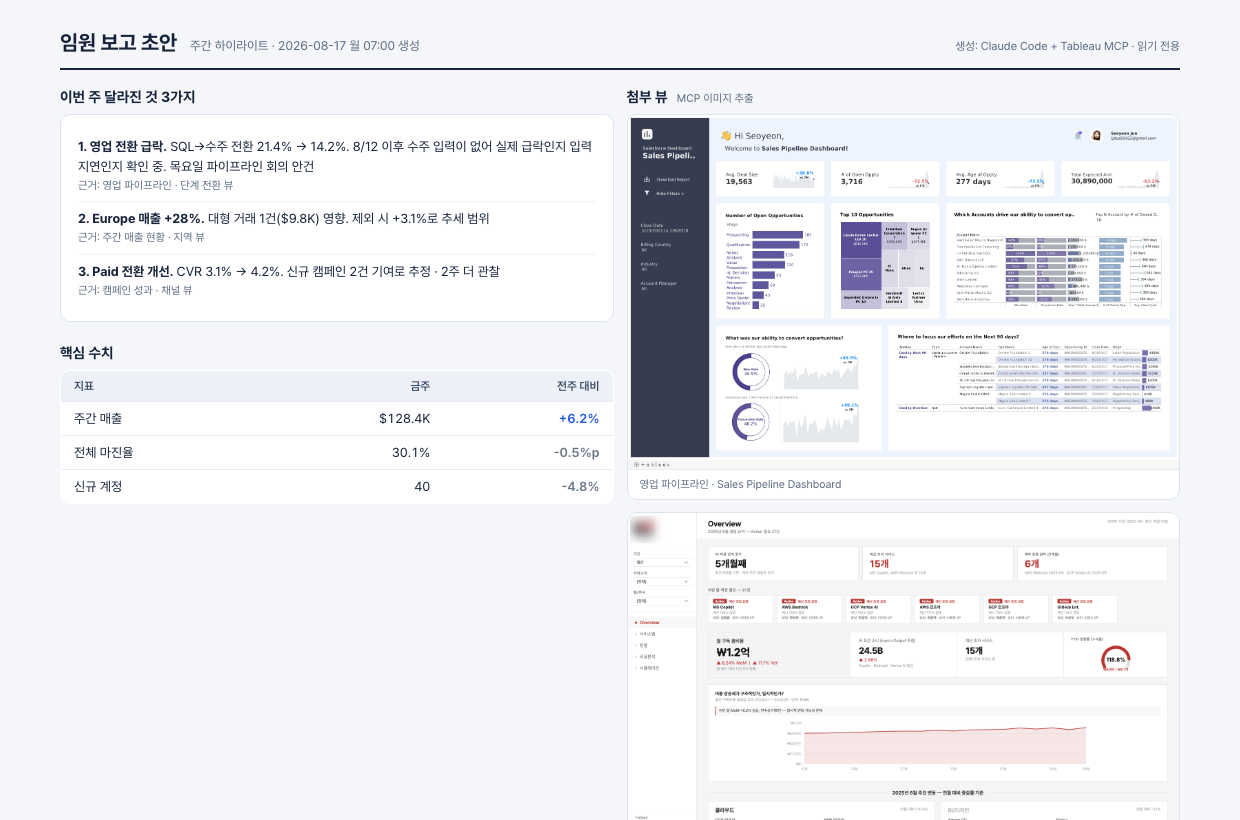
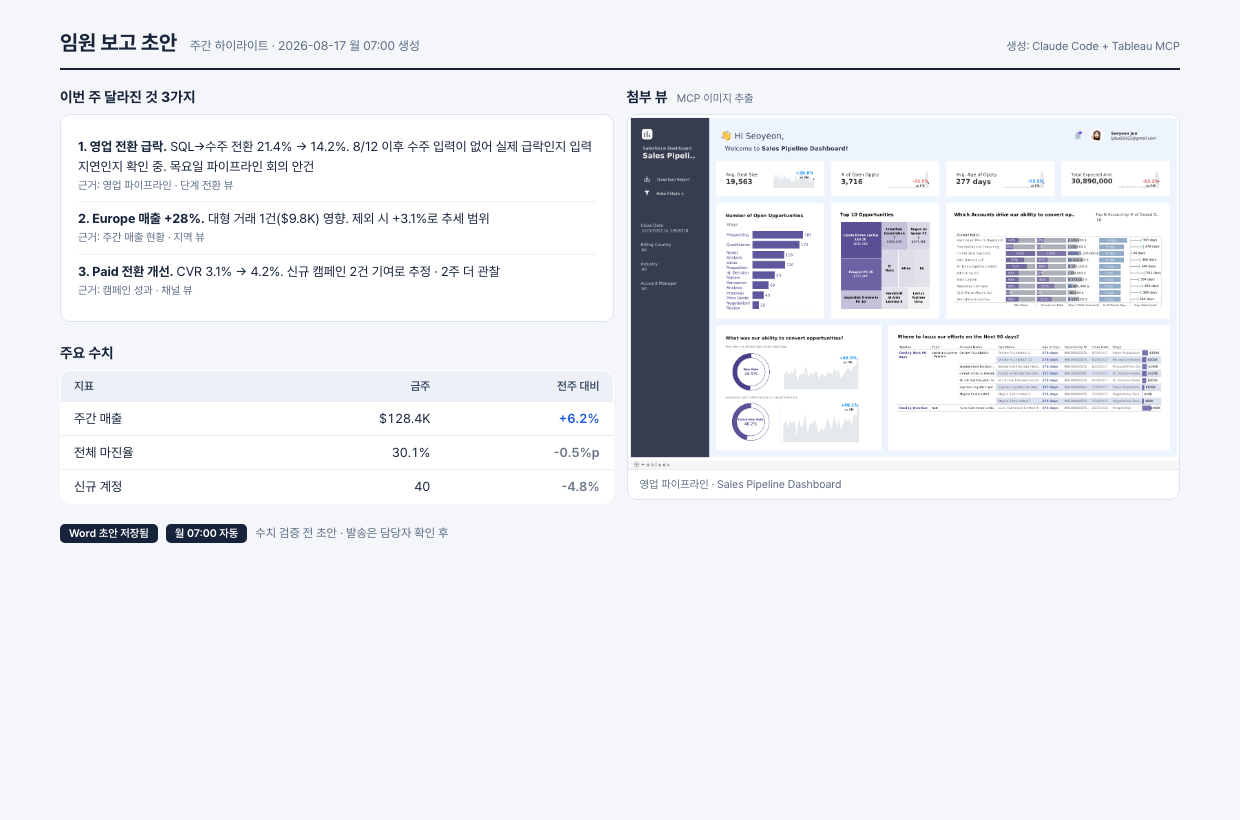
확장 KPI 중복 라벨 제거 · 소개 슬라이드 대시보드 타일 · 마무리 연락처 확대
- 확장: 코호트 폭이 좁을 때 D1 Retention이 3번 반복되던 문제 수정 (중복 열 제거 후 있는 만큼만 표시)
- 확장: 날짜 부족 안내 문구를 실제 상황에 맞게 수정
- 소개: Ambassador 5년 연속 → 2021 – 2026, 프로필 아래 Tableau Public 대시보드 10종 썸네일 (클릭 시 원본)
- 마무리: 이름 30px · 소속 25px · 이메일 링크 추가
- 임원 보고 초안에서 KT 대시보드 이미지 삭제
- 사례 페이지 전반 읽기 전용 · 판정 표현 정리, 핵심 수치 → 주요 수치
- 2.6 Tableau 인계 문구, 2.3 줄간격 조정

diff --git a/index.html b/index.html
@@ -57,6 +57,13 @@ p.sub{font-size:23px;line-height:1.45;color:var(--navy);font-weight:400}
 .bio ul{margin:0 0 20px}
 .bio ul:last-child{margin-bottom:0}
 .bio li{margin-bottom:7px}
+.pvgrid{display:grid;grid-template-columns:repeat(5,1fr);gap:7px;margin-top:11px}
+.pv{display:block;text-decoration:none;background:#fff;border:1px solid rgba(2,42,192,.13);
+  border-radius:8px;overflow:hidden}
+.pv img{display:block;width:100%;height:52px;object-fit:cover;object-position:top}
+.pv span{display:block;padding:5px 7px;font-size:8.5px;line-height:1.3;color:var(--navy);
+  white-space:nowrap;overflow:hidden;text-overflow:ellipsis;border-top:1px solid rgba(2,42,192,.08)}
+.pv em{font-style:normal;color:var(--accent);font-weight:700}
 .bio .grp{display:flex;align-items:center;gap:11px;font-family:var(--display);font-weight:700;
   font-size:15.5px;letter-spacing:.03em;color:var(--accent);margin-bottom:12px}
 .bio .grp:after{content:'';flex:1;height:1px;background:rgba(2,42,192,.2)}
@@ -187,7 +194,9 @@ h3.colhead{font-family:var(--display);font-weight:700;font-size:22px;line-height
 .thanks .lg{width:190px;margin-bottom:14px;position:relative;z-index:2}
 .thanks .t{font-family:var(--display);font-weight:700;font-size:150px;line-height:.94;color:var(--navy);letter-spacing:-.03em;position:relative;z-index:2}
 .thanks .t .y{display:block;margin-left:70px}
-.thanks .meta{margin-top:26px;font-size:19px;color:var(--navy);opacity:.9;position:relative;z-index:2;text-align:center;line-height:1.6}
+.thanks .meta{margin-top:30px;font-size:25px;font-weight:600;color:var(--navy);position:relative;z-index:2;text-align:center;line-height:1.55}
+.thanks .meta b{display:block;font-family:var(--display);font-weight:700;font-size:30px;margin-bottom:6px}
+.thanks .meta a{color:var(--accent);text-decoration:none;font-family:var(--mono);font-size:23px}
 
 /* ---------- 노트(발표자 메모) ---------- */
 .speakernote{display:none}
@@ -654,7 +663,7 @@ a.live .lu{font-family:var(--mono);font-size:12px;color:var(--accent);word-break
         <ul>
           <li><b>데이터브릿지랩 CEO</b></li>
           <li><b>Tableau Visionary</b></li>
-          <li><b>Tableau Public Ambassador 5년 연속</b></li>
+          <li><b>Tableau Public Ambassador · 2021 – 2026</b></li>
         </ul>
         <span class="grp">이전</span>
         <ul>
@@ -667,14 +676,17 @@ a.live .lu{font-family:var(--mono);font-size:12px;color:var(--accent);word-break
           <li>Tableau Live Featured Author · Tableau Certified Associate</li>
         </ul>
       </div>
-      <div class="shot rel"><img src="assets/profile_public.png" alt="Tableau Public 프로필"></div>
+      <div>
+        <div class="shot rel"><img src="assets/profile_public.png" alt="Tableau Public 프로필"></div>
+        <div class="pvgrid"><a class="pv" href="https://public.tableau.com/app/profile/.83057946/viz/SalesFunnelDashboard_16570254084520/SalesPipelineDashboard" target="_blank" rel="noopener"><img src="assets/public/sales_funnel_dashboard_votd.png" alt=""><span>Sales Funnel Dashboard <em>VOTD</em></span></a><a class="pv" href="https://public.tableau.com/app/profile/.83057946/viz/DigitalAdsPerformanceDashboard/PerformanceSummary" target="_blank" rel="noopener"><img src="assets/public/digital_ads_performance_dashboard.png" alt=""><span>Digital Ads Performance Dashboard</span></a><a class="pv" href="https://public.tableau.com/app/profile/.83057946/viz/RFMAnalysis-CustomerSegmentation/Segmentation" target="_blank" rel="noopener"><img src="assets/public/rfm_analysis_customer_segmentation.png" alt=""><span>RFM Analysis - Customer Segmentation</span></a><a class="pv" href="https://public.tableau.com/app/profile/.83057946/viz/12-3_GameLogDashboard_17534330076730/GameDashboard" target="_blank" rel="noopener"><img src="assets/public/game_log_dashboard.png" alt=""><span>Game Log Dashboard</span></a><a class="pv" href="https://public.tableau.com/app/profile/.83057946/viz/ShiningStars-MoviesData/ShiningStarsDashboard" target="_blank" rel="noopener"><img src="assets/public/shining_stars_votd.png" alt=""><span>Shining Stars <em>VOTD</em></span></a><a class="pv" href="https://public.tableau.com/app/profile/.83057946/viz/SalesAnalysis_16026638948020/Dashboard" target="_blank" rel="noopener"><img src="assets/public/sales_analysis.png" alt=""><span>Sales Analysis</span></a><a class="pv" href="https://public.tableau.com/app/profile/.83057946/viz/COVID19_SankeyChart/Sankey" target="_blank" rel="noopener"><img src="assets/public/covid19_sankeychart.png" alt=""><span>COVID19_SankeyChart</span></a><a class="pv" href="https://public.tableau.com/app/profile/.83057946/viz/KPIDashboardforNavigatingOrderValueDrivers/KPIDashboard" target="_blank" rel="noopener"><img src="assets/public/kpi_dashboard_for_navigating_order.png" alt=""><span>KPI Dashboard for Navigating Order Value Drivers</span></a><a class="pv" href="https://public.tableau.com/app/profile/.83057946/viz/PromotionAnalysisDahsboard/PromotionAnalysis" target="_blank" rel="noopener"><img src="assets/public/promotion_analysis_dahsboard.png" alt=""><span>Promotion Analysis Dahsboard</span></a><a class="pv" href="https://public.tableau.com/app/profile/.83057946/viz/NegativePressureIsolationRoomsInKorea/Dashboard" target="_blank" rel="noopener"><img src="assets/public/negative_pressure_isolation_rooms_.png" alt=""><span>Negative Pressure Isolation Rooms In Korea</span></a></div>
+      </div>
     </div>
   </div>
   <div class="footer">public.tableau.com · Seoyeon Jun</div>
 </section>
 
 <!-- =========================================================
-     03 · 핵심 주장
+     03 · 한 줄 주장
      ========================================================= -->
 <section class="slide dark bigstate">
   <img class="logo" src="assets/logo_white.png">
@@ -887,8 +899,8 @@ a.live .lu{font-family:var(--mono);font-size:12px;color:var(--accent);word-break
     <div class="cols c2" style="grid-template-columns:1fr 1.4fr;margin-top:24px;align-items:center">
       <div>
         <div class="clbadge"><img src="assets/claude_logo.svg" alt="Claude">Claude Code</div>
-        <p class="body" style="font-size:15px;">폴더 안 규칙 파일로 동작 고정 · 대화가 아니라 파일이 기준</p>
-        <p style="font-family:var(--display);font-weight:700;font-size:22px;color:var(--accent)">한 번 정의 → 재사용</p>
+        <p class="body" style="font-size:15px;line-height:1.7">폴더 안 규칙 파일로 동작 고정 · 대화가 아니라 파일이 기준</p>
+        <p style="margin-top:18px;font-family:var(--display);font-weight:700;font-size:22px;line-height:1.4;color:var(--accent)">한 번 정의 → 재사용</p>
       </div>
       <div class="tree">
         <div class="troot">.claude/</div>
@@ -981,7 +993,7 @@ a.live .lu{font-family:var(--mono);font-size:12px;color:var(--accent);word-break
         <span class="tag">RULE</span>
         <h3 class="colhead">공통 기준</h3>
         <div class="body"><p>7개 에이전트 전 단계 동일 적용 · 사람마다 다르던 기준의 문서화</p></div>
-        <div class="tbox"><img src="assets/tableau_logo.svg" alt=""><div><b>Tableau 인계</b><span>2 · 4 · 5조가 대시보드 카드 규칙으로 직결</span></div></div>
+        <div class="tbox"><img src="assets/tableau_logo.svg" alt=""><div><b>Tableau 인계</b><span>2 · 4 · 5번이 대시보드 카드 규칙으로 연결</span></div></div>
       </div>
     </div>
   </div>
@@ -1995,10 +2007,15 @@ a.live .lu{font-family:var(--mono);font-size:12px;color:var(--accent);word-break
   <img class="deco" src="assets/plus.png" style="right:390px;top:200px;width:30px">
   <img class="deco" src="assets/star.png" style="left:300px;bottom:230px;width:46px">
   <img class="deco" src="assets/plus.png" style="left:360px;bottom:270px;width:28px">
-  <img class="deco" src="assets/iheartdata.png" style="right:290px;bottom:180px;width:120px;z-index:3">
+  <img class="deco" src="assets/iheartdata.png" style="right:130px;bottom:96px;width:120px;z-index:3">
 
   <img class="lg" src="assets/logo_navy.png" style="width:150px;margin-bottom:6px">
   <div class="t" style="font-size:104px">Thank<span class="y" style="margin-left:48px">you</span></div>
+  <div class="meta">
+    <b>전서연 · 데이터브릿지랩 CEO</b>
+    Tableau Visionary &amp; Public Ambassador<br>
+    <a href="mailto:tjdus92422@gmail.com">tjdus92422@gmail.com</a>
+  </div>
   
 </section>
 

diff --git a/extension/retention-matrix/index.html b/extension/retention-matrix/index.html
@@ -250,13 +250,18 @@ function buildModel(events, now, cmp){
   }
   function colVal(k){ var c=retCol(k); return c===null?'—':c.toFixed(1)+'%'; }
   var dauLabel = unit==='day' ? 'DAU' : (unit==='week' ? 'WAU' : 'MAU');
-  var c1 = Math.min(1, maxCols-1), c2 = Math.min(4, maxCols-1), c3 = Math.min(8, maxCols-1);
-  var kpis=[
-    { label: dauLabel, value: avg.toFixed(1), delta: dAvg, unit:'%', cmpLabel: cmpLabel, trend: cSeries.slice(-14) },
-    { label: prefix+c1+' Retention', value: colVal(c1), delta: colDelta(c1), cmpLabel:'이전 코호트', trend: counts.slice(-14) },
-    { label: prefix+c2+' Retention', value: colVal(c2), delta: colDelta(c2), cmpLabel:'이전 코호트', trend: counts.slice(-14) },
-    { label: prefix+c3+' Retention', value: colVal(c3), delta: colDelta(c3), cmpLabel:'이전 코호트', trend: counts.slice(-14) }
-  ];
+  // 보여줄 코호트 열: 원하는 위치를 데이터 폭에 맞춰 줄이고 중복은 제거
+  var picks=[];
+  [1,4,8].forEach(function(k){
+    var c=Math.min(k, maxCols-1);
+    if(c>=1 && picks.indexOf(c)<0 && retCol(c)!==null) picks.push(c);
+  });
+  if(!picks.length) for(var pc=1; pc<maxCols && picks.length<3; pc++){ if(retCol(pc)!==null) picks.push(pc); }
+  var kpis=[{ label: dauLabel, value: avg.toFixed(1), delta: dAvg, unit:'%', cmpLabel: cmpLabel, trend: cSeries.slice(-14) }];
+  picks.forEach(function(c){
+    kpis.push({ label: prefix+c+' Retention', value: colVal(c), delta: colDelta(c),
+                cmpLabel:'이전 코호트', trend: counts.slice(-14) });
+  });
 
   return {
     periods: Array.apply(null,{length:maxCols}).map(function(_,i){return i;}),
@@ -355,9 +360,9 @@ function run(ws){
     var uniqDays={}; events.forEach(function(e){ uniqDays[startOfDay(e.t)]=1; });
     var nDays=Object.keys(uniqDays).length;
     if(nDays<4){
-      fail('날짜가 연 · 분기 · 월 단위로 집계되어 있습니다',
-        '서로 다른 날짜가 '+nDays+'개뿐이라 코호트를 만들 수 없습니다.<br>' +
-        'Event Date 선반의 필드를 우클릭 → <b>정확한 날짜</b>(Exact Date) 선택 후 다시 시도해 주세요.');
+      fail('서로 다른 날짜가 '+nDays+'개뿐입니다',
+        '코호트를 만들려면 날짜가 최소 4개 필요합니다.<br>' +
+        '날짜가 연 · 분기 · 월로 집계되어 있다면 Event Date 선반의 필드를 우클릭 → <b>정확한 날짜</b>(Exact Date)로 바꿔 주세요.');
       return;
     }
     var maxT=events.reduce(function(a,e){return Math.max(a,e.t);},0);

diff --git a/usecases/uc6_exec.html b/usecases/uc6_exec.html
@@ -39,7 +39,7 @@ code{font-family:'SF Mono',Menlo,monospace;font-size:11px;background:#EDF1F7;bor
 .shotimg .cap{padding:8px 12px;font-size:11px;color:#5B6B84;border-top:1px solid #E7ECF4}
 </style></head>
 <body><div class="page">
-<div class="hd"><h1>임원 보고 초안</h1><span class="period">주간 하이라이트 · 2026-08-17 월 07:00 생성</span><span class="gen">생성: Claude Code + Tableau MCP · 읽기 전용</span></div>
+<div class="hd"><h1>임원 보고 초안</h1><span class="period">주간 하이라이트 · 2026-08-17 월 07:00 생성</span><span class="gen">생성: Claude Code + Tableau MCP</span></div>
 
 <div class="two" style="margin-top:18px">
   <div>
@@ -49,7 +49,7 @@ code{font-family:'SF Mono',Menlo,monospace;font-size:11px;background:#EDF1F7;bor
       <li><b>2. Europe 매출 +28%.</b> 대형 거래 1건($9.8K) 영향. 제외 시 +3.1%로 추세 범위<div class="who">근거: 주간 매출 현황 · 지역 뷰</div></li>
       <li><b>3. Paid 전환 개선.</b> CVR 3.1% → 4.2%. 신규 캠페인 2건 기여로 추정 · 2주 더 관찰<div class="who">근거: 캠페인 성과 · 채널 뷰</div></li>
     </div>
-    <h2>핵심 수치</h2>
+    <h2>주요 수치</h2>
     <table>
       <tr><th>지표</th><th class="num" style="text-align:right">금주</th><th class="num" style="text-align:right">전주 대비</th></tr>
       <tr><td>주간 매출</td><td class="num">$128.4K</td><td class="num up">+6.2%</td></tr>
@@ -60,9 +60,8 @@ code{font-family:'SF Mono',Menlo,monospace;font-size:11px;background:#EDF1F7;bor
   <div>
     <h2 style="margin-top:0">첨부 뷰 <span class="n">MCP 이미지 추출</span></h2>
     <div class="shotimg"><img src="../assets/funnel_full.png" alt=""><div class="cap">영업 파이프라인 · Sales Pipeline Dashboard</div></div>
-    <div class="shotimg" style="margin-top:12px"><img src="../assets/demo_dashboard.png" alt=""><div class="cap">주간 매출 현황 · 수익성 분석</div></div>
   </div>
 </div>
-<div class="foot"><span class="b">Word 초안 저장됨</span><span class="b">월 07:00 자동</span><span>수치 검증 전 초안 · 발송 판단은 사람</span></div>
+<div class="foot"><span class="b">Word 초안 저장됨</span><span class="b">월 07:00 자동</span><span>수치 검증 전 초안 · 발송은 담당자 확인 후</span></div>
 
 </div></body></html>

diff --git a/usecases/demo_qa_report.html b/usecases/demo_qa_report.html
@@ -57,7 +57,7 @@ code{font-family:'SF Mono',Menlo,monospace;font-size:11.5px;background:#EDF1F7;b
 
   <h2>전주 대비 주요 KPI 변동 <span class="n">MCP: get-view-data · 뷰 17개 중 상위 6개</span></h2>
   <table>
-    <tr><th>워크북 · 뷰</th><th>지표</th><th class="num" style="text-align:right">전주</th><th class="num" style="text-align:right">이번 주</th><th class="num" style="text-align:right">변동</th><th>판정 후보</th></tr>
+    <tr><th>워크북 · 뷰</th><th>지표</th><th class="num" style="text-align:right">전주</th><th class="num" style="text-align:right">이번 주</th><th class="num" style="text-align:right">변동</th><th>확인 필요</th></tr>
     <tr><td>영업 파이프라인 · 단계별 전환</td><td>SQL→수주 전환율</td><td class="num">21.4%</td><td class="num">14.2%</td><td class="num dn">-7.2%p</td><td><span class="tag chk">확인 필요</span></td></tr>
     <tr><td>주간 매출 현황 · 카테고리</td><td>Furniture 마진율</td><td class="num">11.2%</td><td class="num">10.7%</td><td class="num dn">-0.5%p</td><td><span class="tag ok">추세 범위</span></td></tr>
     <tr><td>주간 매출 현황 · 지역</td><td>Europe 매출</td><td class="num">$48.2K</td><td class="num">$61.9K</td><td class="num up">+28.4%</td><td><span class="tag chk">확인 필요</span></td></tr>
@@ -82,7 +82,7 @@ code{font-family:'SF Mono',Menlo,monospace;font-size:11.5px;background:#EDF1F7;b
 
   <div class="foot">
     <span class="b">MCP 조회 46회</span>
-    <span>판정은 하지 않음 · 확인 필요 항목까지만 정리 · 수정과 배포는 담당자 승인 후 Tableau에서</span>
+    <span>확인이 필요한 항목까지만 정리 · 수정과 배포는 담당자 승인 후 Tableau에서</span>
   </div>
 </div>
 </body>

diff --git a/usecases/uc3_kpi_audit.html b/usecases/uc3_kpi_audit.html
@@ -39,7 +39,7 @@ code{font-family:'SF Mono',Menlo,monospace;font-size:11px;background:#EDF1F7;bor
 .shotimg .cap{padding:8px 12px;font-size:11px;color:#5B6B84;border-top:1px solid #E7ECF4}
 </style></head>
 <body><div class="page">
-<div class="hd"><h1>KPI 정의 감사 리포트</h1><span class="period">대상: 「매출」 계열 지표 · 워크북 12개 · 2026-08-18</span><span class="gen">생성: Claude Code + Tableau MCP · 읽기 전용</span></div>
+<div class="hd"><h1>KPI 정의 감사 리포트</h1><span class="period">대상: 「매출」 계열 지표 · 워크북 12개 · 2026-08-18</span><span class="gen">생성: Claude Code + Tableau MCP</span></div>
 
 <div class="grid g4">
   <div class="kpi"><div class="l">같은 이름의 지표</div><div class="v">「매출」 3곳</div><div class="d">워크북 3개에서 사용</div></div>
@@ -49,7 +49,7 @@ code{font-family:'SF Mono',Menlo,monospace;font-size:11px;background:#EDF1F7;bor
 </div>
 <h2>「매출」 계산식 대조 <span class="n">워크북 XML 파싱 결과</span></h2>
 <table>
-  <tr><th>워크북</th><th>필드명</th><th>계산식</th><th>판정 후보</th></tr>
+  <tr><th>워크북</th><th>필드명</th><th>계산식</th><th>확인 필요</th></tr>
   <tr><td>주간 매출 현황</td><td><code>매출</code></td><td><code>SUM([Amount])</code></td><td><span class="tag ok">정의서 일치</span></td></tr>
   <tr><td>캠페인 성과</td><td><code>매출</code></td><td><code>SUM([Amount]) - SUM([Discount])</code></td><td><span class="tag chk">할인 차감 · 불일치</span></td></tr>
   <tr><td>임원 KPI 보드</td><td><code>Revenue</code></td><td><code>SUM([Sales USD])</code> · 환율 고정값 1,300</td><td><span class="tag chk">환율 기준 확인</span></td></tr>

diff --git a/usecases/uc1_briefing.html b/usecases/uc1_briefing.html
@@ -39,7 +39,7 @@ code{font-family:'SF Mono',Menlo,monospace;font-size:11px;background:#EDF1F7;bor
 .shotimg .cap{padding:8px 12px;font-size:11px;color:#5B6B84;border-top:1px solid #E7ECF4}
 </style></head>
 <body><div class="page">
-<div class="hd"><h1>데일리 대시보드 모니터</h1><span class="period">2026-08-18 화 08:30 · Sales · Marketing 프로젝트</span><span class="gen">생성: Claude Code + Tableau MCP · 읽기 전용</span></div>
+<div class="hd"><h1>데일리 대시보드 모니터</h1><span class="period">2026-08-18 화 08:30 · Sales · Marketing 프로젝트</span><span class="gen">생성: Claude Code + Tableau MCP</span></div>
 
 <div class="grid g4">
   <div class="kpi"><div class="l">지난주 대비 급변 지표</div><div class="v">3건</div><div class="d">±10% 이상</div></div>
@@ -63,6 +63,6 @@ code{font-family:'SF Mono',Menlo,monospace;font-size:11px;background:#EDF1F7;bor
     <li>재고 현황 · 창고별 <span class="tag warn">원본 실패</span></li>
     <li>주간 매출 현황 · 지역 / 카테고리 <span class="tag chk">확인 필요</span></li></div>
 </div>
-<div class="foot"><span class="b">Slack #data-daily 발송됨</span><span class="b">매주 월 08:30</span><span>판정 없음 · 확인 후보까지만 정리</span></div>
+<div class="foot"><span class="b">Slack #data-daily 발송됨</span><span class="b">매일 08:30</span><span>판정 없음 · 확인 후보까지만 정리</span></div>
 
 </div></body></html>

diff --git a/usecases/uc5_cleanup.html b/usecases/uc5_cleanup.html
@@ -39,7 +39,7 @@ code{font-family:'SF Mono',Menlo,monospace;font-size:11px;background:#EDF1F7;bor
 .shotimg .cap{padding:8px 12px;font-size:11px;color:#5B6B84;border-top:1px solid #E7ECF4}
 </style></head>
 <body><div class="page">
-<div class="hd"><h1>미사용 · 중복 대시보드 정리 후보</h1><span class="period">최근 90일 사용 기록 기준 · 2026-08-18</span><span class="gen">생성: Claude Code + Tableau MCP · 읽기 전용</span></div>
+<div class="hd"><h1>미사용 · 중복 대시보드 정리 후보</h1><span class="period">최근 90일 사용 기록 기준 · 2026-08-18</span><span class="gen">생성: Claude Code + Tableau MCP</span></div>
 
 <div class="grid g4">
   <div class="kpi"><div class="l">90일 무조회 뷰</div><div class="v">14개</div><div class="d">전체 218개 중</div></div>

diff --git a/usecases/uc2_qa.html b/usecases/uc2_qa.html
@@ -39,7 +39,7 @@ code{font-family:'SF Mono',Menlo,monospace;font-size:11px;background:#EDF1F7;bor
 .shotimg .cap{padding:8px 12px;font-size:11px;color:#5B6B84;border-top:1px solid #E7ECF4}
 </style></head>
 <body><div class="page">
-<div class="hd"><h1>대시보드 QA 체크리스트</h1><span class="period">배포 대상: 주간 매출 현황 v2 · 2026-08-18</span><span class="gen">생성: Claude Code + Tableau MCP · 읽기 전용</span></div>
+<div class="hd"><h1>대시보드 QA 체크리스트</h1><span class="period">배포 대상: 주간 매출 현황 v2 · 2026-08-18</span><span class="gen">생성: Claude Code + Tableau MCP</span></div>
 
 <div class="grid g4">
   <div class="kpi"><div class="l">자동 생성 점검 항목</div><div class="v">12개</div><div class="d">워크북 구조 기반</div></div>

diff --git a/usecases/uc8_renewal.html b/usecases/uc8_renewal.html
@@ -39,7 +39,7 @@ code{font-family:'SF Mono',Menlo,monospace;font-size:11px;background:#EDF1F7;bor
 .shotimg .cap{padding:8px 12px;font-size:11px;color:#5B6B84;border-top:1px solid #E7ECF4}
 </style></head>
 <body><div class="page">
-<div class="hd"><h1>대시보드 리뉴얼 전 진단</h1><span class="period">대상: 주간 매출 현황 · 2019년 제작 · 2026-08-18</span><span class="gen">생성: Claude Code + Tableau MCP · 읽기 전용</span></div>
+<div class="hd"><h1>대시보드 리뉴얼 전 진단</h1><span class="period">대상: 주간 매출 현황 · 2019년 제작 · 2026-08-18</span><span class="gen">생성: Claude Code + Tableau MCP</span></div>
 
 <div class="grid g4">
   <div class="kpi"><div class="l">시트</div><div class="v">24개</div><div class="d">대시보드 3개</div></div>

diff --git a/usecases/uc4_catalog.html b/usecases/uc4_catalog.html
@@ -39,7 +39,7 @@ code{font-family:'SF Mono',Menlo,monospace;font-size:11px;background:#EDF1F7;bor
 .shotimg .cap{padding:8px 12px;font-size:11px;color:#5B6B84;border-top:1px solid #E7ECF4}
 </style></head>
 <body><div class="page">
-<div class="hd"><h1>Tableau 자산 카탈로그</h1><span class="period">사이트 전체 · 2026-08-18 자동 생성</span><span class="gen">생성: Claude Code + Tableau MCP · 읽기 전용</span></div>
+<div class="hd"><h1>Tableau 자산 카탈로그</h1><span class="period">사이트 전체 · 2026-08-18 자동 생성</span><span class="gen">생성: Claude Code + Tableau MCP</span></div>
 
 <div class="grid g4">
   <div class="kpi"><div class="l">프로젝트</div><div class="v">4개</div><div class="d">Sales · Marketing · HR · Finance</div></div>

diff --git a/usecases/uc7_ops.html b/usecases/uc7_ops.html
@@ -39,7 +39,7 @@ code{font-family:'SF Mono',Menlo,monospace;font-size:11px;background:#EDF1F7;bor
 .shotimg .cap{padding:8px 12px;font-size:11px;color:#5B6B84;border-top:1px solid #E7ECF4}
 </style></head>
 <body><div class="page">
-<div class="hd"><h1>장애 · 운영 점검 알림</h1><span class="period">매일 08:00 자동 점검 · 2026-08-18</span><span class="gen">생성: Claude Code + Tableau MCP · 읽기 전용</span></div>
+<div class="hd"><h1>장애 · 운영 점검 알림</h1><span class="period">매일 08:00 자동 점검 · 2026-08-18</span><span class="gen">생성: Claude Code + Tableau MCP</span></div>
 
 <div class="grid g4">
   <div class="kpi"><div class="l">새로고침 실패</div><div class="v">2건</div><div class="d"><b>즉시 확인</b></div></div>

diff --git a/usecases/demo_chat.html b/usecases/demo_chat.html
@@ -93,7 +93,7 @@ var A = [
    '<p><code>Won Rate = [# of Won Opp.] / [# of Closed Opp.]</code></p>'+
    '<p><code># of Won Opp. = COUNTD(IF [Stage] = "Closed Won" THEN [Opportunity ID] END)</code></p>'+
    '<p>Closed Won 건수를 Closed 전체로 나누는 방식이라 정의서 기준과 일치합니다. 진행 중(Open) 딜은 분모에서 빠지는 점만 유의하면 됩니다.</p>'+
-   '<p class="note">판정은 하지 않습니다. 확인이 필요한 항목만 정리해 전달합니다.</p>' },
+   '<p class="note">확인이 필요한 항목만 정리해 전달합니다.</p>' },
 
  { k:['구조','시트','제작','파라미터','어떻게','sheet','구성','설계','만든'],
    tools:['get-workbook-details','analyze-structure'],
